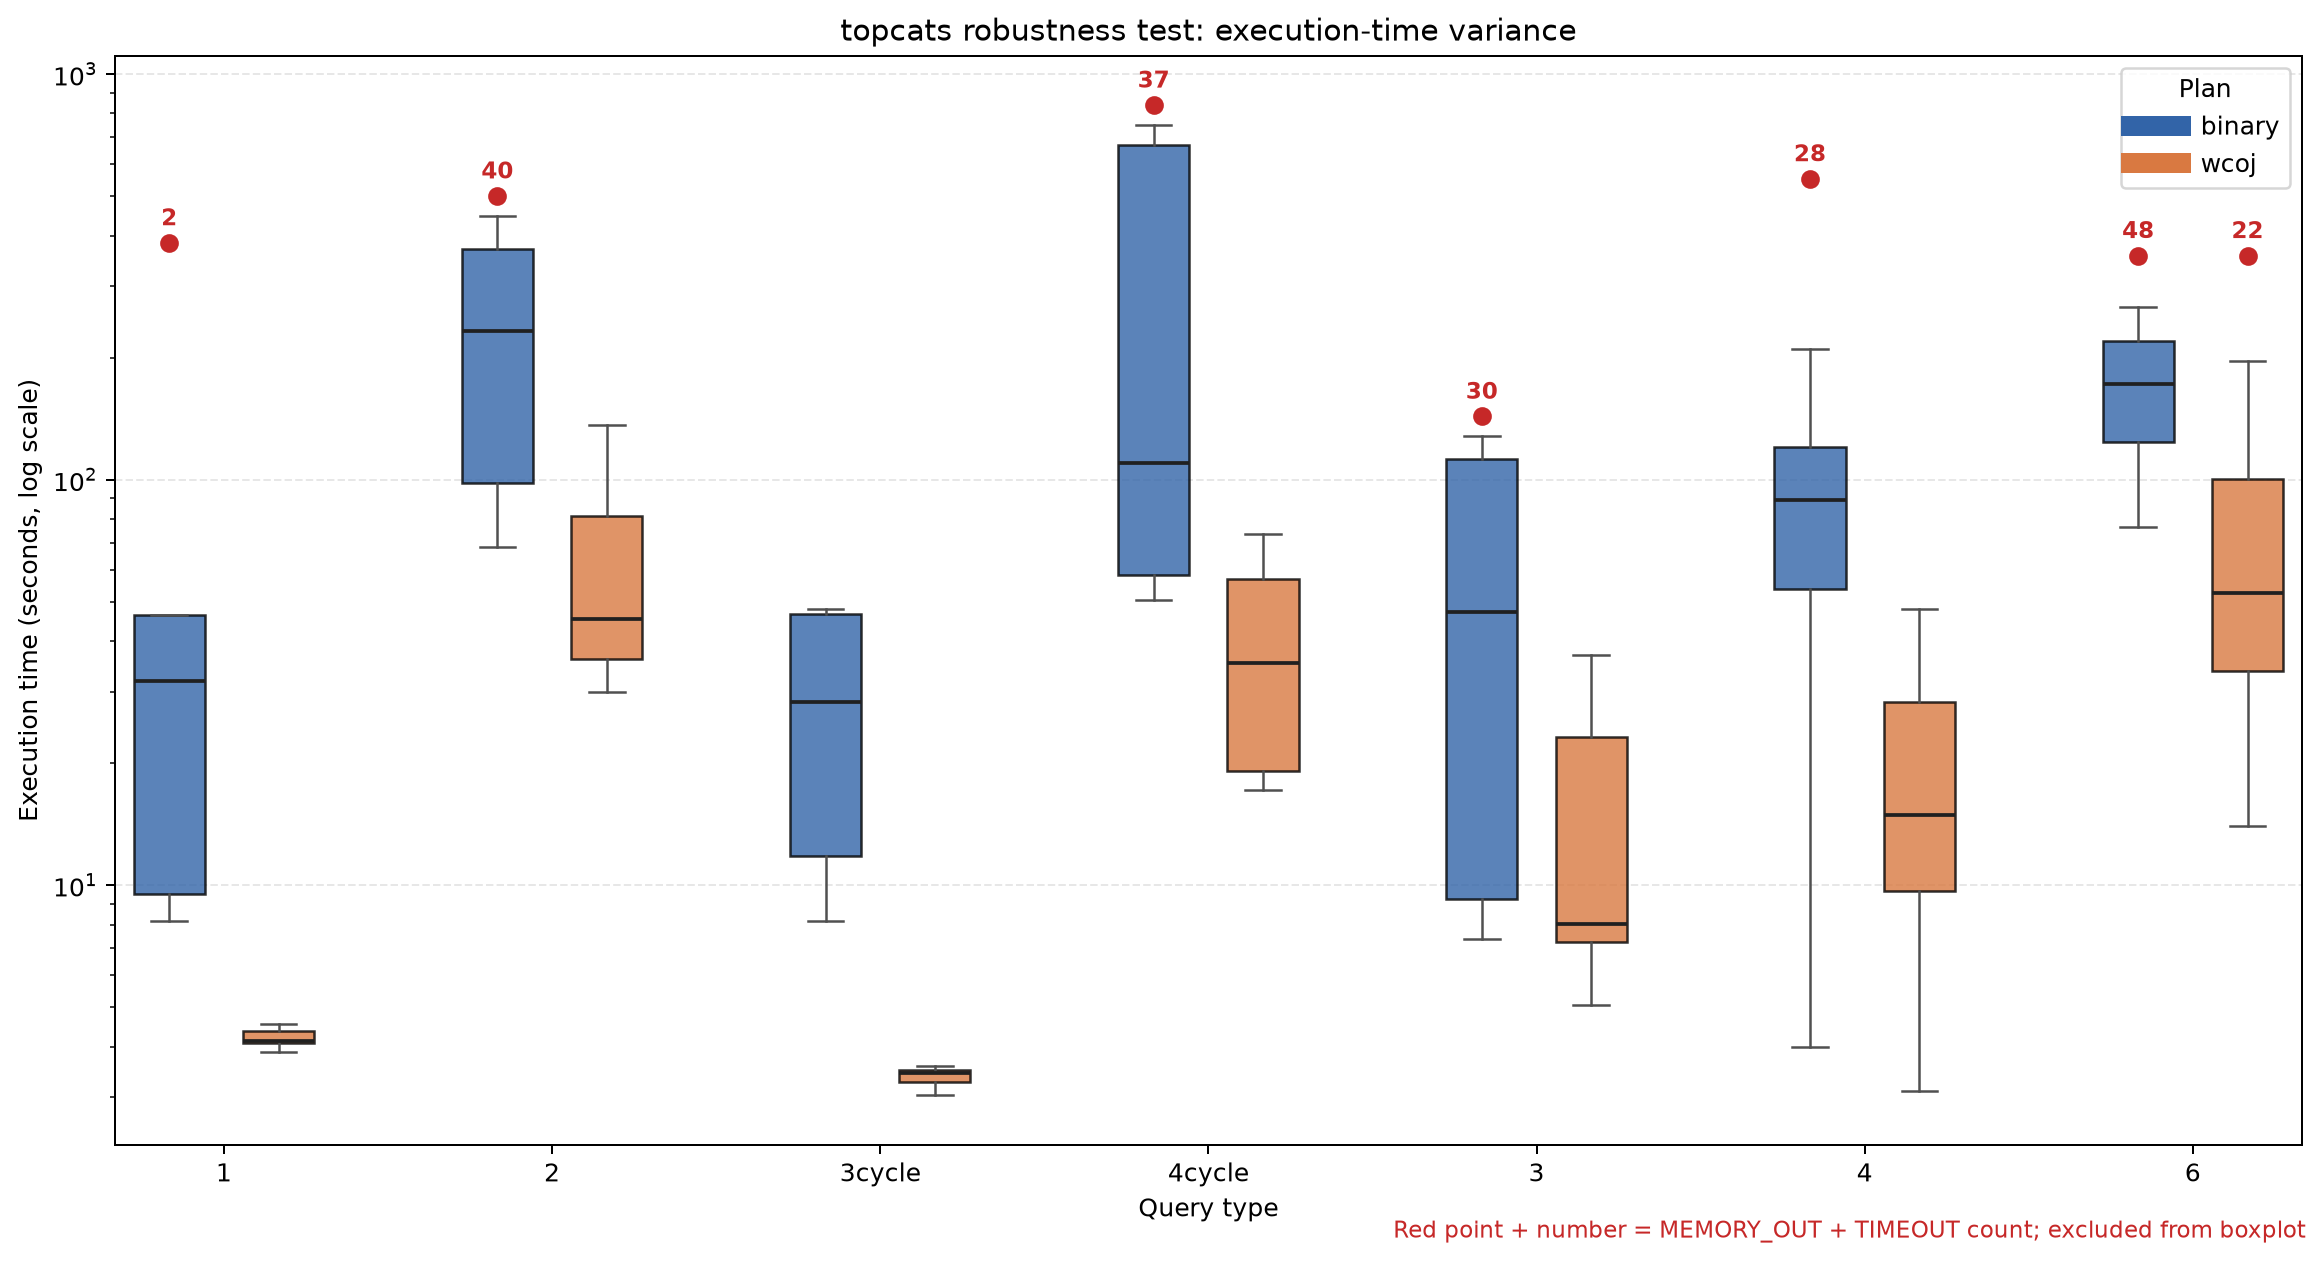
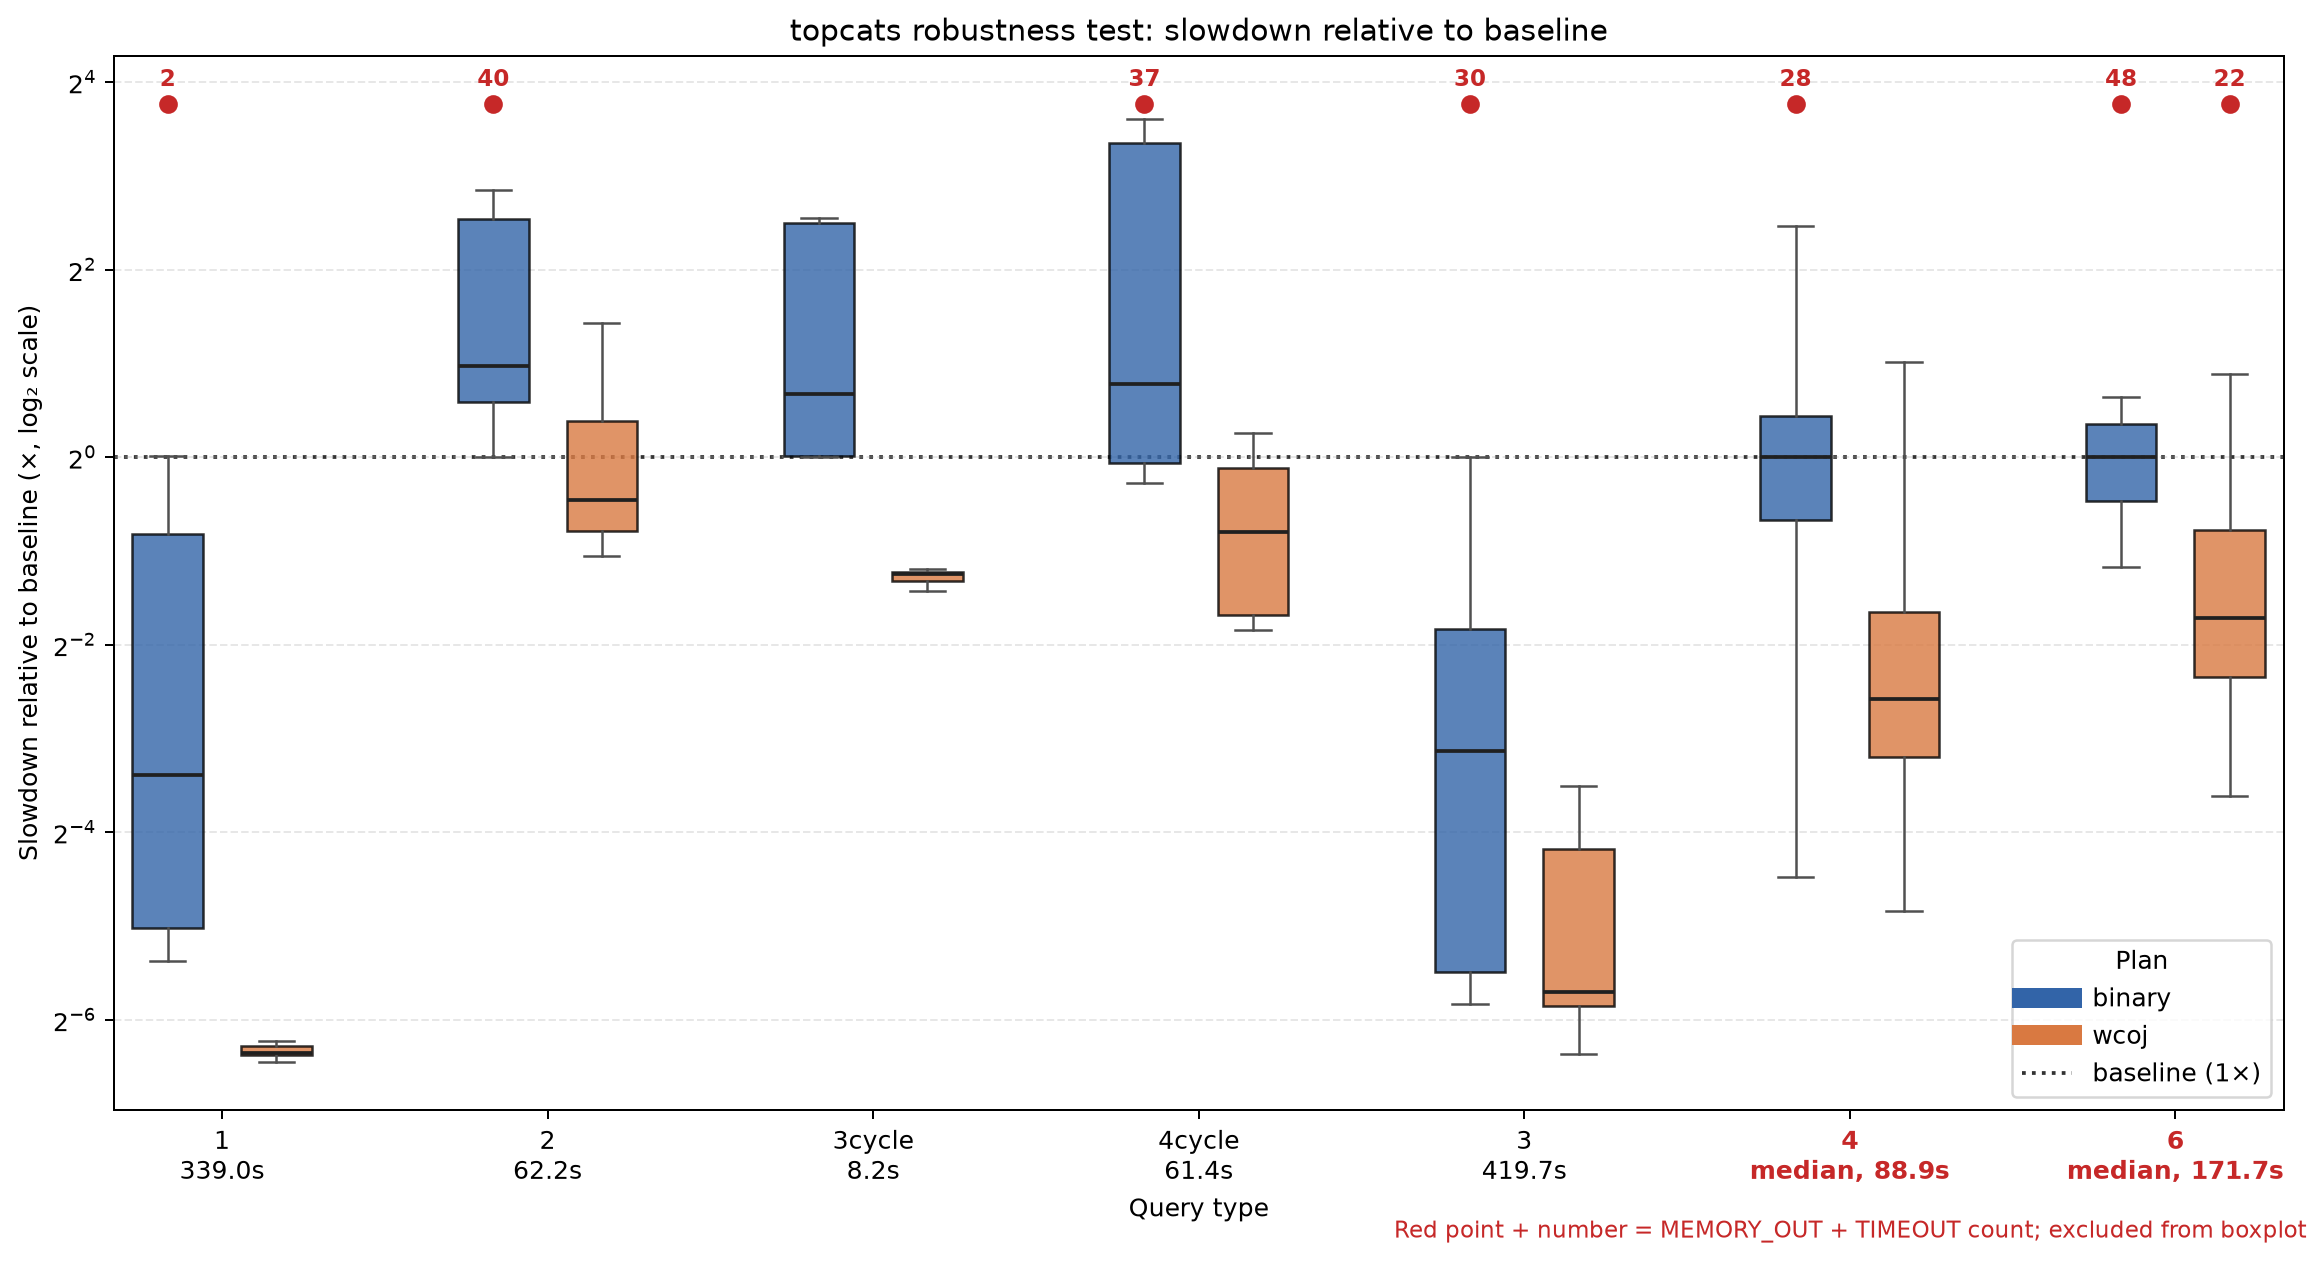
add baseline-normalized robustness plots

diff --git a/plot_robustness_boxplot.py b/plot_robustness_boxplot.py
@@ -24,6 +24,59 @@ def read_results(path: Path) -> pd.DataFrame:
     return results
 
 
+def read_baselines(path: Path, dataset: str) -> dict[str, tuple[str, float]]:
+    if not path.exists():
+        print(f"Baseline file not found: {path}; using plan medians")
+        return {}
+
+    baselines = pd.read_csv(path, sep="\t")
+    required = {"dataset", "query", STATUS_COLUMN, TIME_COLUMN}
+    missing = required - set(baselines.columns)
+    if missing:
+        raise ValueError(f"Missing columns in {path}: {', '.join(sorted(missing))}")
+
+    baselines[TIME_COLUMN] = pd.to_numeric(baselines[TIME_COLUMN], errors="raise")
+    baselines["query_type"] = baselines["query"].str.replace(
+        r"\.sql$", "", regex=True
+    )
+    selected = baselines[baselines["dataset"] == dataset]
+    return {
+        row["query_type"]: (row[STATUS_COLUMN], row[TIME_COLUMN])
+        for _, row in selected.iterrows()
+    }
+
+
+def calculate_slowdowns(
+    results: pd.DataFrame, baselines: dict[str, tuple[str, float]]
+) -> tuple[pd.DataFrame, dict[str, float]]:
+    normalized = results.copy()
+    normal_mask = normalized[STATUS_COLUMN] == "NORMAL"
+    reference_times = {}
+
+    for query_type, group in normalized[normal_mask].groupby("query_type"):
+        baseline = baselines.get(query_type)
+        baseline_time = (
+            baseline[1]
+            if baseline is not None and baseline[0] == "NORMAL" and baseline[1] > 0
+            else None
+        )
+        if baseline_time is None:
+            binary_times = group.loc[group["family"] == "binary", TIME_COLUMN]
+            baseline_time = (
+                binary_times.median()
+                if not binary_times.empty
+                else group[TIME_COLUMN].median()
+            )
+            print(
+                f"No usable baseline for {query_type}; "
+                f"using binary plan median ({baseline_time:.3f}s)"
+            )
+        reference_times[query_type] = baseline_time
+        normalized.loc[group.index, TIME_COLUMN] /= baseline_time
+
+    return normalized, reference_times
+
+
 def filter_disconnected_binary_plans(results: pd.DataFrame) -> pd.DataFrame:
     plan_root = Path("robustness-test/binary")
     excluded_queries = []
@@ -40,7 +93,13 @@ def filter_disconnected_binary_plans(results: pd.DataFrame) -> pd.DataFrame:
     return results[~results["query"].isin(excluded_queries)].copy()
 
 
-def plot_results(results: pd.DataFrame, output: Path, dataset: str) -> None:
+def plot_results(
+    results: pd.DataFrame,
+    output: Path,
+    dataset: str,
+    baselines: dict[str, tuple[str, float]],
+) -> None:
+    results, reference_times = calculate_slowdowns(results, baselines)
     normal = results[results[STATUS_COLUMN] == "NORMAL"]
     abnormal = results[results[STATUS_COLUMN].isin(["MEMORY_OUT", "TIMEOUT"])]
     query_types = list(dict.fromkeys(results["query_type"]))
@@ -58,6 +117,8 @@ def plot_results(results: pd.DataFrame, output: Path, dataset: str) -> None:
                 (normal["query_type"] == query_type)
                 & (normal["family"] == family)
             ][TIME_COLUMN].tolist()
+            if values and family == "binary":
+                values.append(1.0)
             position = query_index * 3 + family_index + 1
             positions.append(position)
             labels.append(family)
@@ -68,6 +129,7 @@ def plot_results(results: pd.DataFrame, output: Path, dataset: str) -> None:
         positions=positions,
         widths=0.65,
         patch_artist=True,
+        whis=(0, 100),
         showfliers=False,
         medianprops={"color": "#202020", "linewidth": 1.5},
         whiskerprops={"color": "#505050"},
@@ -77,11 +139,10 @@ def plot_results(results: pd.DataFrame, output: Path, dataset: str) -> None:
         box.set_facecolor(family_colors[families[index % 2]])
         box.set_alpha(0.8)
 
+    top = max(normal[TIME_COLUMN].max(), 1) if not normal.empty else 1
+    top *= 1.12
     for query_index, query_type in enumerate(query_types):
-        group_normal = normal[normal["query_type"] == query_type]
         group_abnormal = abnormal[abnormal["query_type"] == query_type]
-        top = group_normal[TIME_COLUMN].max() if not group_normal.empty else 1
-        top *= 1.12
         for family_index, family in enumerate(families):
             position = query_index * 3 + family_index + 1
             count = len(group_abnormal[group_abnormal["family"] == family])
@@ -99,15 +160,40 @@ def plot_results(results: pd.DataFrame, output: Path, dataset: str) -> None:
                 )
 
     axis.set_xticks([query_index * 3 + 1.5 for query_index in range(len(query_types))])
-    axis.set_xticklabels(query_types)
+    tick_labels = []
+    failed_baseline_ticks = []
+    for index, query_type in enumerate(query_types):
+        baseline = baselines.get(query_type)
+        if baseline is not None and baseline[0] in {"TIMEOUT", "MEMORY_OUT"}:
+            tick_labels.append(
+                f"{query_type}\nmedian, {reference_times[query_type]:.1f}s"
+            )
+            failed_baseline_ticks.append(index)
+        elif baseline is not None:
+            tick_labels.append(f"{query_type}\n{baseline[1]:.1f}s")
+        else:
+            tick_labels.append(
+                f"{query_type}\nmedian, {reference_times[query_type]:.1f}s"
+            )
+    axis.set_xticklabels(tick_labels)
+    for index in failed_baseline_ticks:
+        axis.get_xticklabels()[index].set_color("#c62828")
+        axis.get_xticklabels()[index].set_fontweight("bold")
     axis.set_xlabel("Query type")
-    axis.set_yscale("log")
-    axis.set_ylabel("Execution time (seconds, log scale)")
-    axis.set_title(f"{dataset} robustness test: execution-time variance")
+    axis.set_yscale("log", base=2)
+    axis.set_ylabel("Slowdown relative to baseline (×, log₂ scale)")
+    axis.set_title(f"{dataset} robustness test: slowdown relative to baseline")
     axis.grid(axis="y", linestyle="--", alpha=0.3)
+    axis.axhline(1, color="#333333", linestyle=":", linewidth=1.5, zorder=1)
     axis.legend(
-        [plt.Line2D([0], [0], color=color, linewidth=8) for color in family_colors.values()],
-        families,
+        [
+            *[
+                plt.Line2D([0], [0], color=color, linewidth=8)
+                for color in family_colors.values()
+            ],
+            plt.Line2D([0], [0], color="#333333", linestyle=":", linewidth=1.5),
+        ],
+        [*families, "baseline (1×)"],
         title="Plan",
     )
     figure.text(
@@ -139,6 +225,12 @@ def main() -> None:
         default="robustness-test/results-skitters-15min-boxplot.png",
     )
     parser.add_argument(
+        "--baseline",
+        type=Path,
+        default=Path("robustness-test/baseline.tsv"),
+        help="Baseline TSV produced by run_robustness_test.sh -b",
+    )
+    parser.add_argument(
         "--filtered",
         action="store_true",
         help="Exclude binary plans containing a disconnected CROSS JOIN",
@@ -148,7 +240,8 @@ def main() -> None:
     if args.filtered:
         results = filter_disconnected_binary_plans(results)
     dataset = args.input.stem.removeprefix("results-").removesuffix("-15min")
-    plot_results(results, args.output, dataset)
+    baselines = read_baselines(args.baseline, dataset)
+    plot_results(results, args.output, dataset, baselines)
 
 
 if __name__ == "__main__":

diff --git a/README.md b/README.md
@@ -8,6 +8,60 @@ uv sync
 run.sh
 ```
 
+## Robustness tests and plots
+
+Run robustness plans with a 15-minute timeout per query:
+
+```bash
+./run_robustness_test.sh \
+  -d skitters \
+  -t 900 \
+  -o robustness-test/results-skitters-15min.tsv
+```
+
+The regular result format is:
+
+```text
+family  query  status  execution_time
+```
+
+Run the normal SQL queries in `queries/normal` as baselines for `skitters`,
+`topcats`, and `uspatent`:
+
+```bash
+./run_robustness_test.sh \
+  -b \
+  -t 900 \
+  -o robustness-test/baseline.tsv
+```
+
+The baseline result format is:
+
+```text
+dataset  query  status  execution_time
+```
+
+`robustness-test/test.sh` keeps the commands for the complete experiment. Commands
+for result files that have already been generated are commented out; currently the
+active command generates `baseline.tsv`.
+
+Generate all regular and filtered plots from the `results-*-15min.tsv` files:
+
+```bash
+./robustness-test/plot.sh
+```
+
+The plots report slowdown relative to the matching baseline on a base-2 logarithmic
+axis. A successful baseline is the normalization time. If a baseline times out or
+runs out of memory, the median of the successful binary plans for that dataset and
+query type is used for both binary and WCOJ. That fallback time is shown in red below
+the query label. The baseline `1x` sample is included only in the binary box plot.
+
+Each box plot uses the five-number summary directly: 0%, 25%, 50%, 75%, and 100%.
+Timeout and out-of-memory plans are excluded from the box statistics and shown as
+red counts aligned at the top of the plot. The filtered plots additionally exclude
+disconnected binary plans containing `CROSS JOIN`.
+
 ## ```make_split_plan.py```
 
 This is a maker for split plans, split framework is:
